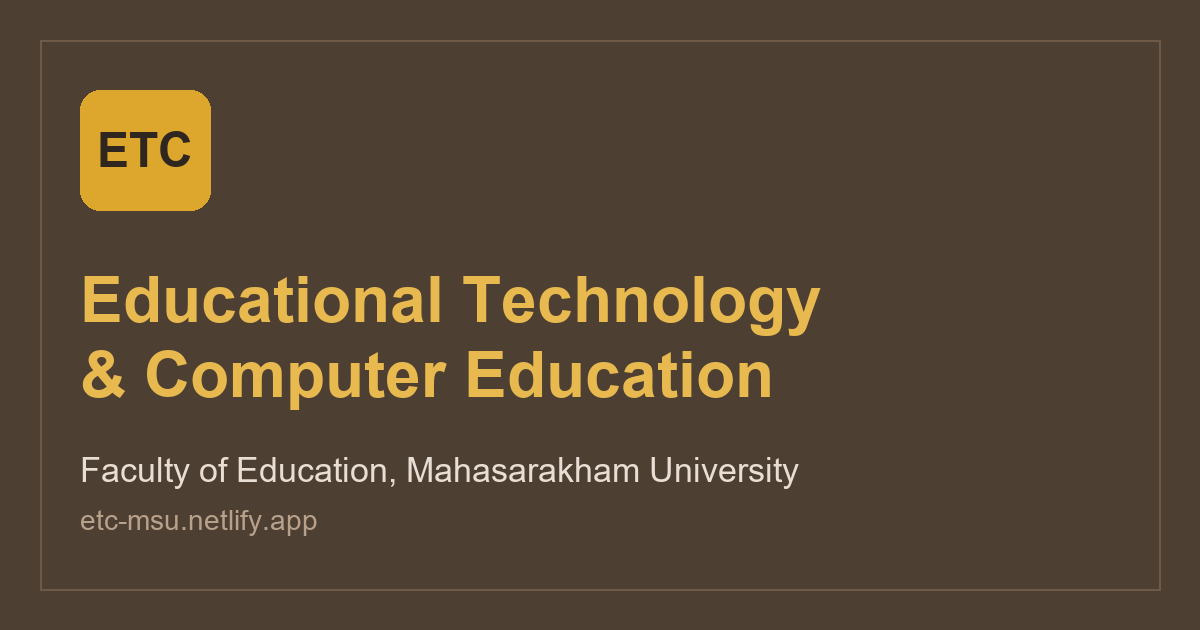
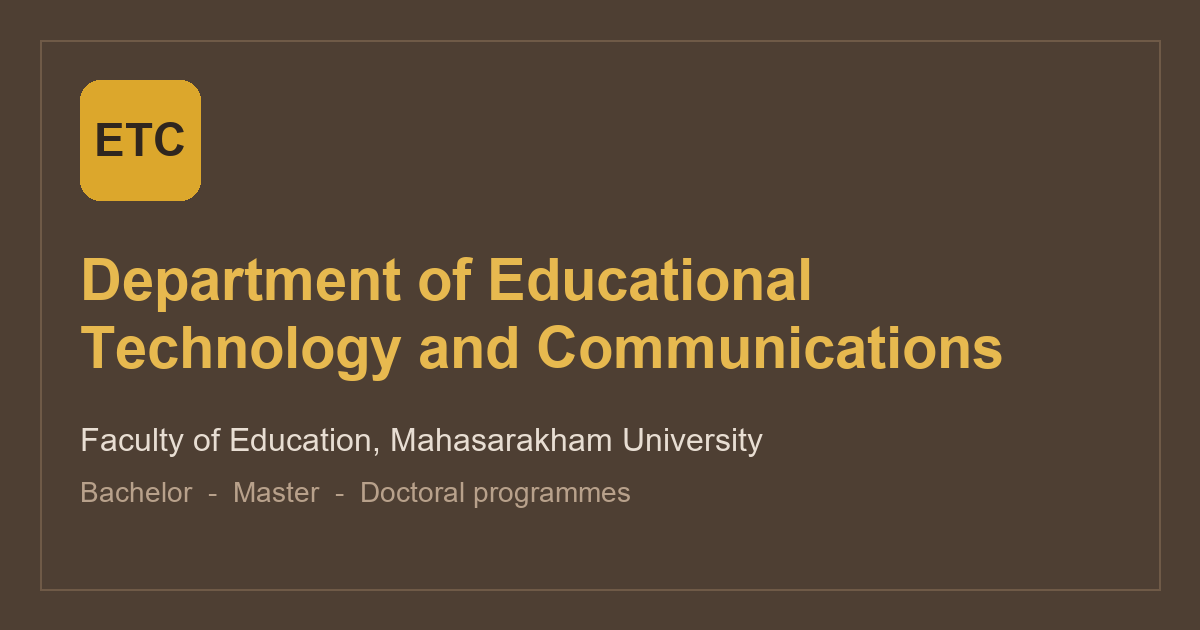
Reposition as Department site covering bachelor/master/doctoral
- Rebrand to ภาควิชาเทคโนโลยีและสื่อสารการศึกษา (Department of Educational
  Technology and Communications), Faculty of Education, MSU
- New programs collection + 3 degree levels (bachelor confirmed; master/
  doctoral seeded as editable placeholders to verify via CMS)
- Programmes page shows 3 level cards + sample courses; hero shows level chips
- Update about, OG image, CMS config, nav/labels to department framing

Changed region(s): [[0.0617, 0.3921, 0.8325, 0.6333], [0.0617, 0.6635, 0.6783, 0.8444], [0.0617, 0.1206, 0.185, 0.3619]]

diff --git a/src/i18n/ui.ts b/src/i18n/ui.ts
@@ -12,12 +12,12 @@ export type Lang = keyof typeof languages;
 
 export const ui = {
   th: {
-    "site.name": "สาขาเทคโนโลยีการศึกษาและคอมพิวเตอร์ศึกษา",
+    "site.name": "ภาควิชาเทคโนโลยีและสื่อสารการศึกษา",
     "site.short": "ETC",
-    "site.navName": "เทคโนโลยีการศึกษาฯ",
-    "site.tagline": "ผลิตครูนักออกแบบการเรียนรู้ยุคดิจิทัล — คณะศึกษาศาสตร์ มหาวิทยาลัยมหาสารคาม",
+    "site.navName": "เทคโนโลยีและสื่อสารการศึกษา",
+    "site.tagline": "ภาควิชาเทคโนโลยีและสื่อสารการศึกษา คณะศึกษาศาสตร์ มหาวิทยาลัยมหาสารคาม — เปิดสอนระดับปริญญาตรี โท และเอก",
     "nav.home": "หน้าแรก",
-    "nav.about": "เกี่ยวกับสาขา",
+    "nav.about": "เกี่ยวกับภาควิชา",
     "nav.courses": "หลักสูตร",
     "nav.staff": "อาจารย์",
     "nav.projects": "ผลงานนิสิต",
@@ -25,13 +25,13 @@ export const ui = {
     "nav.news": "ข่าว/กิจกรรม",
     "nav.contact": "ติดต่อ",
     "nav.admin": "จัดการเนื้อหา",
-    "home.badge": "กศ.บ. 4 ปี · คณะศึกษาศาสตร์ มมส",
-    "home.heroDesc": "เก่งสื่อ เก่งโค้ด เก่งสอน พร้อมก้าวสู่โลกการศึกษาแห่งอนาคต ด้วยอัตลักษณ์วิชาเอกคู่และการฝึกประสบการณ์วิชาชีพที่เข้มข้น",
-    "home.applyCta": "สมัครเรียน",
-    "home.exploreProgram": "รู้จักสาขา",
-    "home.progressTitle": "ความก้าวหน้าของสาขา",
+    "home.badge": "คณะศึกษาศาสตร์ มหาวิทยาลัยมหาสารคาม",
+    "home.heroDesc": "ผลิตครูและนักเทคโนโลยีการศึกษามืออาชีพ ครบทุกระดับ ตั้งแต่ปริญญาตรีถึงปริญญาเอก ด้วยการเรียนรู้ที่ทันสมัยและการวิจัยที่เข้มแข็ง",
+    "home.applyCta": "หลักสูตรที่เปิดสอน",
+    "home.exploreProgram": "รู้จักภาควิชา",
+    "home.progressTitle": "ความก้าวหน้าของภาควิชา",
     "home.studentWork": "ผลงานนิสิตเด่น",
-    "home.ecosystemTitle": "ระบบนิเวศของสาขา",
+    "home.ecosystemTitle": "ระบบนิเวศของภาควิชา",
     "home.ecosystemDesc": "เชื่อมทุกระบบไว้ที่เดียว — เข้าถึงง่ายสำหรับทุกคน",
     "home.newsTitle": "ข่าว/กิจกรรมล่าสุด",
     "home.contactTitle": "ศูนย์ติดต่อสำหรับทุกกลุ่ม",
@@ -47,13 +47,18 @@ export const ui = {
     "audience.staff": "อาจารย์/เจ้าหน้าที่",
     "audience.alumni": "ศิษย์เก่า",
     "audience.employer": "ผู้ใช้บัณฑิต",
-    "courses.title": "หลักสูตร",
+    "courses.title": "หลักสูตรที่เปิดสอน",
+    "courses.desc": "ภาควิชาเปิดสอน 3 ระดับ ตั้งแต่ปริญญาตรีถึงปริญญาเอก",
+    "courses.coursesTitle": "ตัวอย่างรายวิชา",
+    "programs.degree": "วุฒิการศึกษา",
+    "programs.duration": "ระยะเวลา",
+    "programs.viewCourses": "ดูรายวิชา",
     "projects.title": "ผลงานนิสิต",
-    "projects.desc": "ผลงานสื่อ นวัตกรรม และโครงงานของนิสิตสาขา ETC",
+    "projects.desc": "ผลงานสื่อ นวัตกรรม และโครงงานของนิสิตภาควิชา",
     "alumni.title": "ศิษย์เก่า",
     "alumni.desc": "เครือข่ายศิษย์เก่ากว่า 1,000 คน ในวงการการศึกษาและเทคโนโลยี",
     "alumni.openApp": "เข้าสู่เครือข่ายศิษย์เก่า",
-    "contact.title": "ติดต่อสาขา",
+    "contact.title": "ติดต่อภาควิชา",
     "common.readMore": "อ่านต่อ",
     "common.viewAll": "ดูทั้งหมด",
     "common.backHome": "กลับหน้าแรก",
@@ -61,23 +66,23 @@ export const ui = {
     "footer.rights": "สงวนลิขสิทธิ์",
   },
   en: {
-    "site.name": "Educational Technology & Computer Education",
+    "site.name": "Department of Educational Technology and Communications",
     "site.short": "ETC",
-    "site.navName": "Educational Technology",
-    "site.tagline": "Educating digital-age learning designers — Faculty of Education, Mahasarakham University",
+    "site.navName": "Educational Technology & Communications",
+    "site.tagline": "Department of Educational Technology and Communications, Faculty of Education, Mahasarakham University — bachelor's, master's and doctoral programmes",
     "nav.home": "Home",
     "nav.about": "About",
-    "nav.courses": "Programme",
+    "nav.courses": "Programmes",
     "nav.staff": "Faculty",
     "nav.projects": "Student work",
     "nav.alumni": "Alumni",
     "nav.news": "News",
     "nav.contact": "Contact",
     "nav.admin": "Manage",
-    "home.badge": "4-year B.Ed. · Faculty of Education, MSU",
-    "home.heroDesc": "Strong in media, coding and teaching — ready for the future of education, with a dual-major identity and intensive professional practicum.",
-    "home.applyCta": "Apply now",
-    "home.exploreProgram": "Explore the programme",
+    "home.badge": "Faculty of Education, Mahasarakham University",
+    "home.heroDesc": "Educating professional teachers and educational technologists at every level — from bachelor's to doctoral degrees — through modern learning and strong research.",
+    "home.applyCta": "Our programmes",
+    "home.exploreProgram": "About the department",
     "home.progressTitle": "Our progress",
     "home.studentWork": "Featured student work",
     "home.ecosystemTitle": "Our ecosystem",
@@ -96,7 +101,12 @@ export const ui = {
     "audience.staff": "Faculty/staff",
     "audience.alumni": "Alumni",
     "audience.employer": "Employers",
-    "courses.title": "Programme",
+    "courses.title": "Programmes",
+    "courses.desc": "The department offers three levels — from bachelor's to doctoral degrees.",
+    "courses.coursesTitle": "Sample courses",
+    "programs.degree": "Degree",
+    "programs.duration": "Duration",
+    "programs.viewCourses": "View courses",
     "projects.title": "Student work",
     "projects.desc": "Media, innovations and projects by ETC students.",
     "alumni.title": "Alumni",

diff --git a/src/content.config.ts b/src/content.config.ts
@@ -31,6 +31,26 @@ const courses = defineCollection({
   }),
 });
 
+// หลักสูตรที่เปิดสอน (ป.ตรี / ป.โท / ป.เอก)
+const programs = defineCollection({
+  loader: glob({ pattern: "**/*.md", base: "./src/content/programs" }),
+  schema: z.object({
+    level_th: z.string(), // ปริญญาตรี/โท/เอก
+    level_en: z.string(),
+    name_th: z.string(),
+    name_en: z.string().optional().default(""),
+    degree_th: z.string().optional().default(""), // เช่น กศ.บ.
+    degree_en: z.string().optional().default(""),
+    duration_th: z.string().optional().default(""),
+    duration_en: z.string().optional().default(""),
+    icon: z.string().optional().default("school"),
+    desc_th: z.string().optional().default(""),
+    desc_en: z.string().optional().default(""),
+    link: z.string().optional().default(""),
+    order: z.number().optional().default(0),
+  }),
+});
+
 // ผลงานนิสิต (showcase)
 const projects = defineCollection({
   loader: glob({ pattern: "**/*.md", base: "./src/content/projects" }),
@@ -84,4 +104,4 @@ const news = defineCollection({
   }),
 });
 
-export const collections = { pages, courses, projects, staff, news };
+export const collections = { pages, programs, courses, projects, staff, news };

diff --git a/src/lib/site.ts b/src/lib/site.ts
@@ -1,8 +1,8 @@
 // ค่าตั้งค่าระดับเว็บ + ลิงก์ระบบในเครือข่ายของสาขา (ecosystem)
 
 export const site = {
-  name_th: "สาขาวิชาเทคโนโลยีการศึกษาและคอมพิวเตอร์ศึกษา",
-  name_en: "Educational Technology and Computer Education",
+  name_th: "ภาควิชาเทคโนโลยีและสื่อสารการศึกษา",
+  name_en: "Department of Educational Technology and Communications",
   shortName: "ETC",
   faculty_th: "คณะศึกษาศาสตร์ มหาวิทยาลัยมหาสารคาม",
   faculty_en: "Faculty of Education, Mahasarakham University",

diff --git a/src/content/pages/about.md b/src/content/pages/about.md
@@ -1,30 +1,33 @@
 ---
-title_th: "เกี่ยวกับสาขา"
-title_en: "About the programme"
+title_th: "เกี่ยวกับภาควิชา"
+title_en: "About the department"
 order: 1
 body_th: |
-  หลักสูตรการศึกษาบัณฑิต (กศ.บ. 4 ปี) สาขาวิชาเทคโนโลยีการศึกษาและคอมพิวเตอร์ศึกษา
-  คณะศึกษาศาสตร์ มหาวิทยาลัยมหาสารคาม มุ่งผลิตครูนักออกแบบการเรียนรู้ยุคดิจิทัล
+  ภาควิชาเทคโนโลยีและสื่อสารการศึกษา คณะศึกษาศาสตร์ มหาวิทยาลัยมหาสารคาม
+  จัดการเรียนการสอนและการวิจัยด้านเทคโนโลยีการศึกษา สื่อ และนวัตกรรมการเรียนรู้
+  ครบทุกระดับ ตั้งแต่ปริญญาตรี ปริญญาโท จนถึงปริญญาเอก
 
-  **อัตลักษณ์ของสาขา:** วิชาเอกคู่ (เทคโนโลยีการศึกษา + คอมพิวเตอร์ศึกษา)
-  ร่วมกับการฝึกประสบการณ์วิชาชีพครูที่เข้มข้น ทำให้บัณฑิตเก่งทั้งสื่อ การโค้ด และการสอน
+  **พันธกิจ:** ผลิตครู นักวิชาการ และนักวิจัยด้านเทคโนโลยีและสื่อสารการศึกษา
+  ที่มีสมรรถนะสูง พร้อมสร้างองค์ความรู้และนวัตกรรมเพื่อพัฒนาการศึกษา
 
-  **ผลการเรียนรู้ที่คาดหวัง (PLOs):**
-  - PLO1: ออกแบบและผลิตสื่อ/นวัตกรรมการเรียนรู้ด้วยกระบวนการเชิงระบบ
-  - PLO2: ประยุกต์การคิดเชิงคำนวณและเทคโนโลยีเพื่อจัดการเรียนรู้
-  - PLO3: จัดการเรียนการสอนและประเมินผู้เรียนอย่างมีคุณภาพ
-  - PLO4: มีจิตวิญญาณความเป็นครู จริยธรรม และความรับผิดชอบต่อสังคม
+  **จุดเด่น:**
+  - หลักสูตรครบ 3 ระดับ เชื่อมโยงตั้งแต่การผลิตครูถึงการวิจัยขั้นสูง
+  - อัตลักษณ์วิชาเอกคู่ (เทคโนโลยีการศึกษา + คอมพิวเตอร์ศึกษา) ในระดับปริญญาตรี
+  - เครือข่ายศิษย์เก่าเข้มแข็งกว่า 1,000 คน ในวงการการศึกษาและเทคโนโลยี
+  - ประกันคุณภาพตามมาตรฐานสากล AUN-QA
 body_en: |
-  The Bachelor of Education (4-year B.Ed.) in Educational Technology and Computer
-  Education, Faculty of Education, Mahasarakham University, educates digital-age
-  learning designers.
+  The Department of Educational Technology and Communications, Faculty of
+  Education, Mahasarakham University, provides teaching and research in
+  educational technology, media and learning innovation across all levels —
+  from bachelor's and master's to doctoral degrees.
 
-  **Programme identity:** a dual major (Educational Technology + Computer Education)
-  combined with an intensive teaching practicum — graduates excel in media, coding and teaching.
+  **Mission:** To educate highly competent teachers, scholars and researchers
+  in educational technology and communications, and to create knowledge and
+  innovation that advances education.
 
-  **Programme Learning Outcomes (PLOs):**
-  - PLO1: Design and produce learning media/innovations through a systematic process
-  - PLO2: Apply computational thinking and technology to manage learning
-  - PLO3: Deliver quality teaching and student assessment
-  - PLO4: Demonstrate the spirit of a teacher, ethics and social responsibility
+  **Highlights:**
+  - Three programme levels — from teacher education to advanced research
+  - A dual-major identity (Educational Technology + Computer Education) at bachelor's level
+  - A strong alumni network of 1,000+ across education and technology
+  - Quality assured to the international AUN-QA standard
 ---

diff --git a/src/content/programs/bachelor.md b/src/content/programs/bachelor.md
@@ -1,0 +1,14 @@
+---
+level_th: "ปริญญาตรี"
+level_en: "Bachelor's"
+name_th: "เทคโนโลยีการศึกษาและคอมพิวเตอร์ศึกษา"
+name_en: "Educational Technology and Computer Education"
+degree_th: "กศ.บ. (4 ปี)"
+degree_en: "B.Ed. (4 years)"
+duration_th: "4 ปี"
+duration_en: "4 years"
+icon: "school"
+desc_th: "หลักสูตรครู วิชาเอกคู่ (เทคโนโลยีการศึกษา + คอมพิวเตอร์ศึกษา) เน้นออกแบบสื่อ นวัตกรรม และการสอนยุคดิจิทัล พร้อมฝึกประสบการณ์วิชาชีพครู"
+desc_en: "A dual-major teacher education programme (Educational Technology + Computer Education) focused on media design, innovation and digital-age teaching, with a professional teaching practicum."
+order: 1
+---

diff --git a/src/content/programs/doctoral.md b/src/content/programs/doctoral.md
@@ -1,0 +1,14 @@
+---
+level_th: "ปริญญาเอก"
+level_en: "Doctoral"
+name_th: "เทคโนโลยีและสื่อสารการศึกษา"
+name_en: "Educational Technology and Communications"
+degree_th: "กศ.ด. / ปร.ด."
+degree_en: "Ed.D. / Ph.D."
+duration_th: "3 ปี"
+duration_en: "3 years"
+icon: "certificate"
+desc_th: "ผลิตนักวิจัยและผู้นำทางวิชาการระดับสูง สร้างองค์ความรู้และนวัตกรรมด้านเทคโนโลยีและสื่อสารการศึกษา (โปรดยืนยัน/แก้ไขชื่อ วุฒิ และรายละเอียดให้ตรงตามหลักสูตรจริงผ่านระบบจัดการเนื้อหา)"
+desc_en: "Produces high-level researchers and academic leaders creating knowledge and innovation in educational technology and communications. (Please verify/edit the exact name, degree and details via the CMS.)"
+order: 3
+---

diff --git a/src/content/programs/master.md b/src/content/programs/master.md
@@ -1,0 +1,14 @@
+---
+level_th: "ปริญญาโท"
+level_en: "Master's"
+name_th: "เทคโนโลยีและสื่อสารการศึกษา"
+name_en: "Educational Technology and Communications"
+degree_th: "กศ.ม."
+degree_en: "M.Ed."
+duration_th: "2 ปี"
+duration_en: "2 years"
+icon: "books"
+desc_th: "พัฒนานักวิชาการและนักออกแบบการเรียนรู้ขั้นสูง ด้านการออกแบบระบบการเรียนการสอน สื่อ และนวัตกรรมการศึกษา (โปรดยืนยัน/แก้ไขชื่อและรายละเอียดให้ตรงตามหลักสูตรจริงผ่านระบบจัดการเนื้อหา)"
+desc_en: "Develops advanced scholars and learning designers in instructional design, media and educational innovation. (Please verify/edit the exact name and details via the CMS.)"
+order: 2
+---